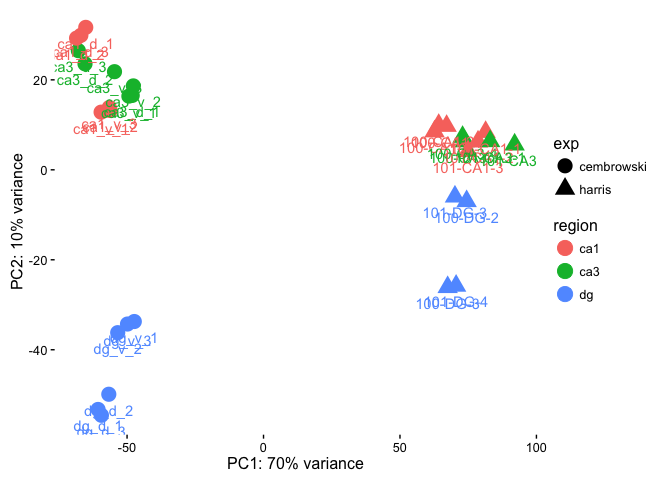
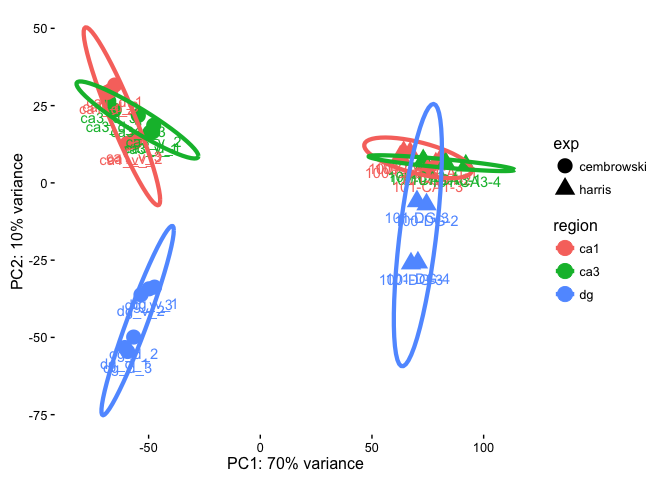
combo

diff --git a/bin/combo.md b/bin/combo.md
@@ -1,5 +1,17 @@
-These first two plots show that with normalization (as done by DESeq)
-that our samples can be on the same y axis scale.
+Methods for Dorsal Hippocampal Gene Expression Profiling
+--------------------------------------------------------
+
+#### Part 4: Comparing Rayna's and the Cembrowski data.
+
+This histogram shows that my samples are in the bottom bin with less
+than 100 million gene counts per sample while the cembrowksi datat has
+up to 900 milion reads per sample.
+
+![](../figures/combo/edgeR-1.png)
+
+However, this first plot shows that normalization with DESeq2 can put my
+samples in a comparble range as the cembrowski samples on a gene by gene
+basis.
 
 ![](../figures/combo/DifferentialGeneExpressionAnalysis-1.png)![](../figures/combo/DifferentialGeneExpressionAnalysis-2.png)
 
@@ -15,5 +27,3 @@ I really love this PCA analysis. PC1 separates the two experiments. PC2
 separates DG from the CAs.
 
 ![](../figures/combo/PCA-1.png)
-
-![](../figures/combo/edgeR-1.png)
